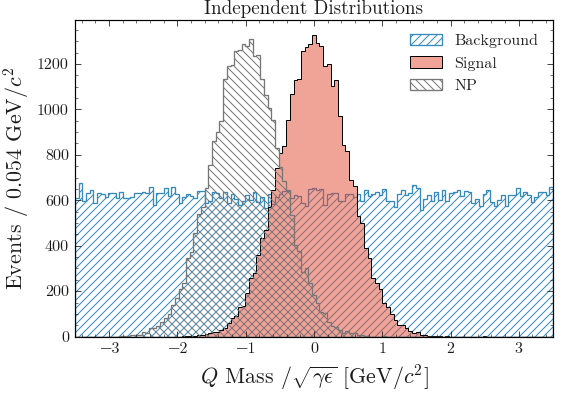
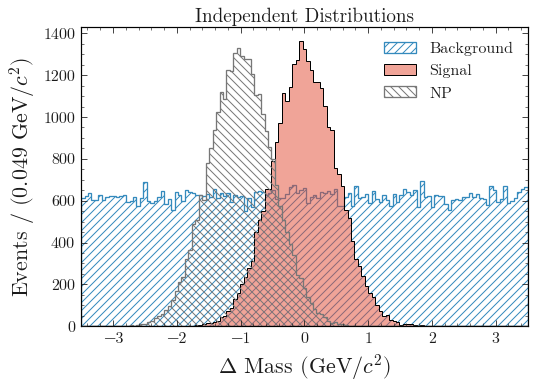
changes to hist and colors and documentation

diff --git a/src/b2plot/functions.py b/src/b2plot/functions.py
@@ -42,7 +42,7 @@ STYLES_hatches = [None, '///', r"\\\ ",  'xxx', '--', '++', 'o', ".+", 'xx', '//
 
 
 def hist(data, bins=None, fill=False, range=None, lw=1., ax=None, style=None, color=None, scale=None, weights=None,
-         label=None, edgecolor=None,  *args, **kwargs):
+         label=None, edgecolor=None, fillalpha=0.5, *args, **kwargs):
     """
 
     Args:
@@ -81,7 +81,6 @@ def hist(data, bins=None, fill=False, range=None, lw=1., ax=None, style=None, co
     # convert color
     if not isinstance(color, list) or isinstance(color, tuple):
         color = hex2color(color)
-    edgecolor = color
 
     if style is not None:
         fill = True
@@ -107,8 +106,8 @@ def hist(data, bins=None, fill=False, range=None, lw=1., ax=None, style=None, co
         # y, xaxis, _ = ax.hist(data, xaxis, range=range, histtype='step',
         #                       lw=lw, color=color, weights=weights, *args, **kwargs)
         y, xaxis, patches = ax.hist(data, xaxis, range=range, lw=lw, histtype='stepfilled', hatch=STYLES_hatches[style],
-                                    edgecolor=color, facecolor=fc, linewidth=lw, weights=weights, label=label,
-                                    color=edgecolor, *args, **kwargs)
+                                    edgecolor=edgecolor, facecolor=fc, linewidth=lw, weights=weights, label=label,
+                                    color=color, *args, **kwargs)
     else:
         y, xaxis, patches = ax.hist(data, xaxis, range=range, histtype='step', lw=lw, color=color, weights=weights,
                                     label=label, *args, **kwargs)
@@ -297,7 +296,21 @@ def xlim(low=None, high=None, ax=None):
         ax.set_xlim(low, high)
 
 
-def save(filename, bottom=0.15, left=0.13, right=0.96, top=0.95, *args, **kwargs):
+def save(filename,  *args, **kwargs):
+    """ Save a file and do the subplot_adjust to fit the page with larger labels
+
+    Args:
+        filename:
+        *args:
+        **kwargs:
+
+    Returns:
+
+    """
+    plt.savefig(filename, bbox_inches='tight', *args, **kwargs)
+
+
+def save_adjust(filename, bottom=0.15, left=0.13, right=0.96, top=0.95, *args, **kwargs):
     """ Save a file and do the subplot_adjust to fit the page with larger labels
 
     Args:
@@ -308,12 +321,12 @@ def save(filename, bottom=0.15, left=0.13, right=0.96, top=0.95, *args, **kwargs
         top:
         *args:
         **kwargs:
-
+bbox_inches='tight',
     Returns:
 
     """
     plt.subplots_adjust(bottom=bottom, left=left, right=right, top=top)
-    plt.savefig(filename, *args, **kwargs)
+    plt.savefig(filename,  *args, **kwargs)
 
 
 def sig_bkg_plot(df, col, by=None, ax=None, bins=None, range=None, labels=None):

diff --git a/src/b2plot/decorations.py b/src/b2plot/decorations.py
@@ -41,7 +41,7 @@ def draw_y_label(label='Entries', unit=None, ha='right', brackets=True, *args, *
         except TypeError:
             plt.ylabel(label+' /' + br_open + ' ' + unit + br_close, ha=ha, *args, **kwargs)
         else:
-            plt.ylabel(label+' / ' + br_open + '%.3f' % width + ' ' + unit + br_close, ha=ha, *args, **kwargs)
+            plt.ylabel(label+' /' + br_open + "{0:.3f}".format(width).rstrip('0').rstrip('.') + ' ' + unit + br_close, ha=ha, *args, **kwargs)
 
 
 def watermark(t="2019 (preliminary)", px=0.5, py=0.9, fontsize=16, alpha=0.95,  *args, **kwargs):

diff --git a/docs/style_guide/colors.rst b/docs/style_guide/colors.rst
@@ -35,4 +35,14 @@ For showing differences, choose a **Diverging Colormap**.
 
 Possible Colormaps
 ------------------
+s
+
+* `Tango Colormap <https://sobac.com/sobac/tangocolors.htm>`_
+* `Solarized <https://ethanschoonover.com/solarized/>`_
+* `Groovebox <https://github.com/morhetz/gruvbox>`_
+
+.. figure:: img/3_examples.png
+   :alt: Examples
+
+   Examples
 

diff --git a/docs/style_guide/examples.rst b/docs/style_guide/examples.rst
@@ -3,3 +3,20 @@ Examples
 ========
 
 
+Example of different style file settings:
+
+.. figure:: img/5_belle2.png
+   :alt: Examples
+
+
+
+
+.. figure:: img/5_belle2_modern.png
+   :alt: Examples
+
+
+
+.. figure:: img/5_belle2_serif.png
+   :alt: Examples
+
+
